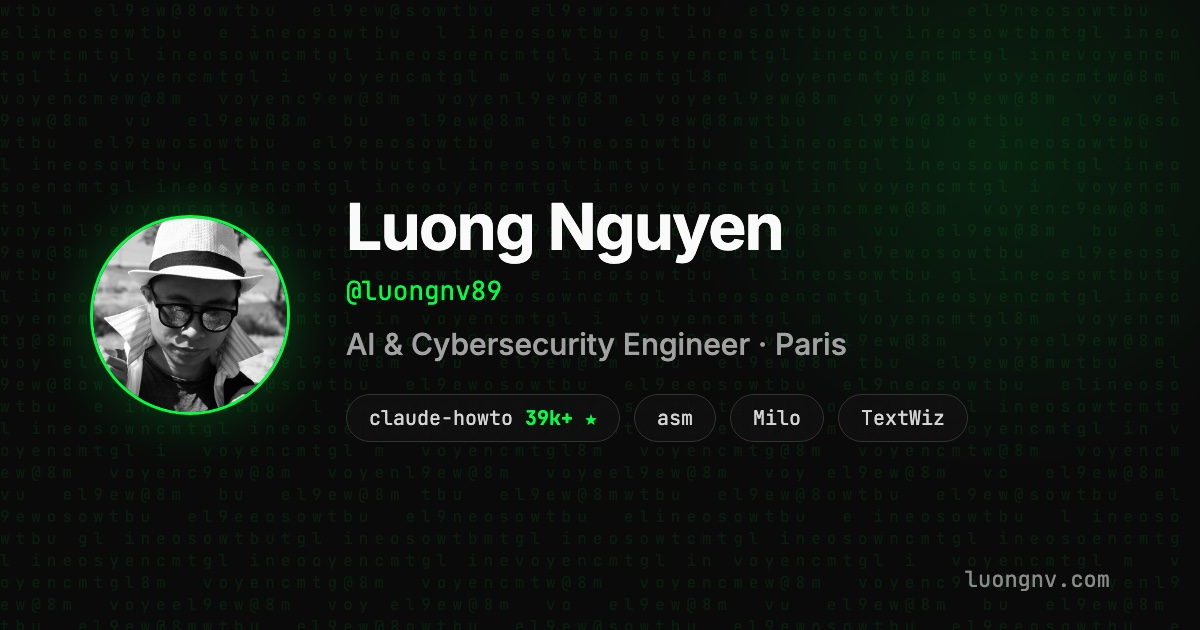
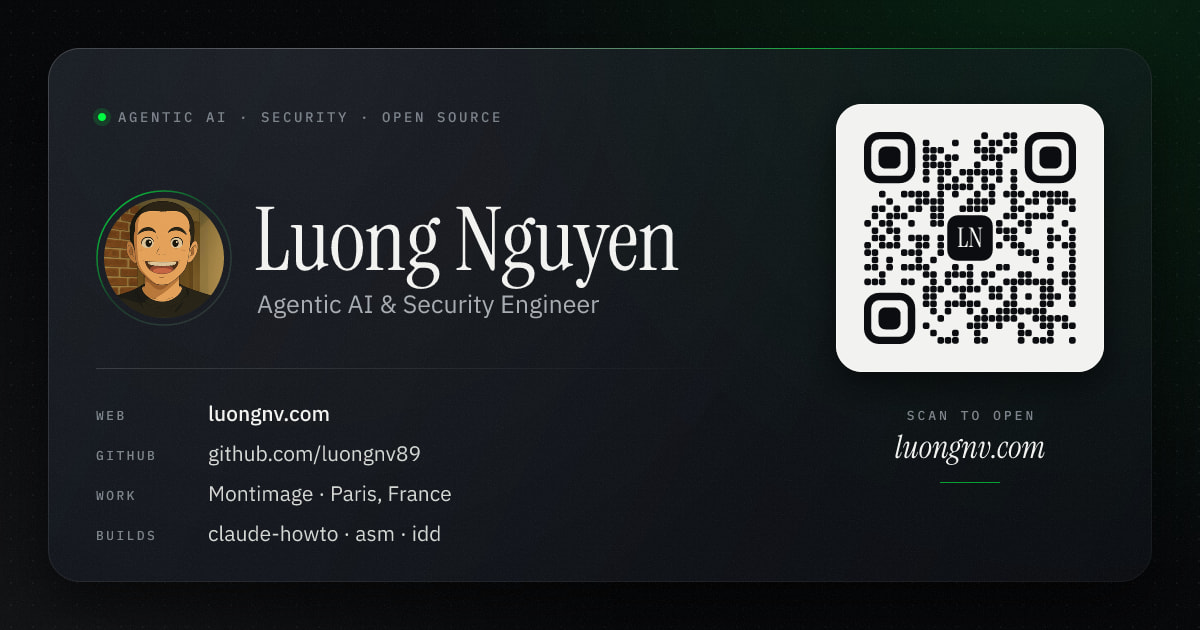
design(og): premium contact card with QR code to luongnv.com (#44)
## Why

The old OG card was an identity card with chips, and it was out of date:
it said "AI & Cybersecurity Engineer" and "39k+". This replaces it with
a premium contact card that people can scan straight from a shared post.

## What changed

- **`public/img/og-card.jpg`** is redesigned. It's 1200×630 JPEG, 96 KB
(was 170 KB).
- Dark card in the site's design system: Instrument Serif and IBM Plex
fonts, `#0b0d10` surfaces, and the `#00ff41` accent only on hairlines.
- Left side: avatar, name, "Agentic AI & Security Engineer", and contact
rows (web, GitHub, work, builds).
- Right side: a QR code to `https://luongnv.com` on a light panel, with
error-correction level H and an `LN` monogram.
  - No star count, so the image doesn't go stale.
- **`index.html`** adds `og:image:alt` and `twitter:image:alt`.

## Verification

- The QR code decodes to `https://luongnv.com` (checked with jsQR) at
1200, 800, 600, 450, 360 and 300 px wide.
- Fixed a banding artifact: the drop-shadow filter was posterizing the
dark gradient, so the shadow is now its own layer with `sRGB` filters
plus a fine grain.

## After merge

Social platforms cache OG images. Refresh them with LinkedIn Post
Inspector and the Facebook Sharing Debugger.

This is independent of #43. Both PRs touch `index.html`, but in
different lines.

🤖 Generated with [Claude Code](https://claude.com/claude-code)

diff --git a/index.html b/index.html
@@ -37,6 +37,7 @@
     <meta property="og:image" content="https://luongnv.com/img/og-card.jpg" />
     <meta property="og:image:width" content="1200" />
     <meta property="og:image:height" content="630" />
+    <meta property="og:image:alt" content="Contact card for Luong Nguyen, Agentic AI &amp; Security Engineer, with a QR code to luongnv.com" />
     <meta property="og:site_name" content="Luong Nguyen Portfolio" />
     <meta property="og:locale" content="en_US" />
 
@@ -46,6 +47,7 @@
     <meta name="twitter:title" content="Luong Nguyen | Agentic AI & Security Engineer" />
     <meta name="twitter:description" content="Agentic AI & Security Engineer in Paris. Security R&D at Montimage; creator of claude-howto (%CLAUDE_HOWTO_STARS%+ stars) and asm, tooling for AI agents and agent skills." />
     <meta name="twitter:image" content="https://luongnv.com/img/og-card.jpg" />
+    <meta name="twitter:image:alt" content="Contact card for Luong Nguyen, Agentic AI &amp; Security Engineer, with a QR code to luongnv.com" />
     <meta name="twitter:site" content="@luongnv89" />
     <meta name="twitter:creator" content="@luongnv89" />
 
